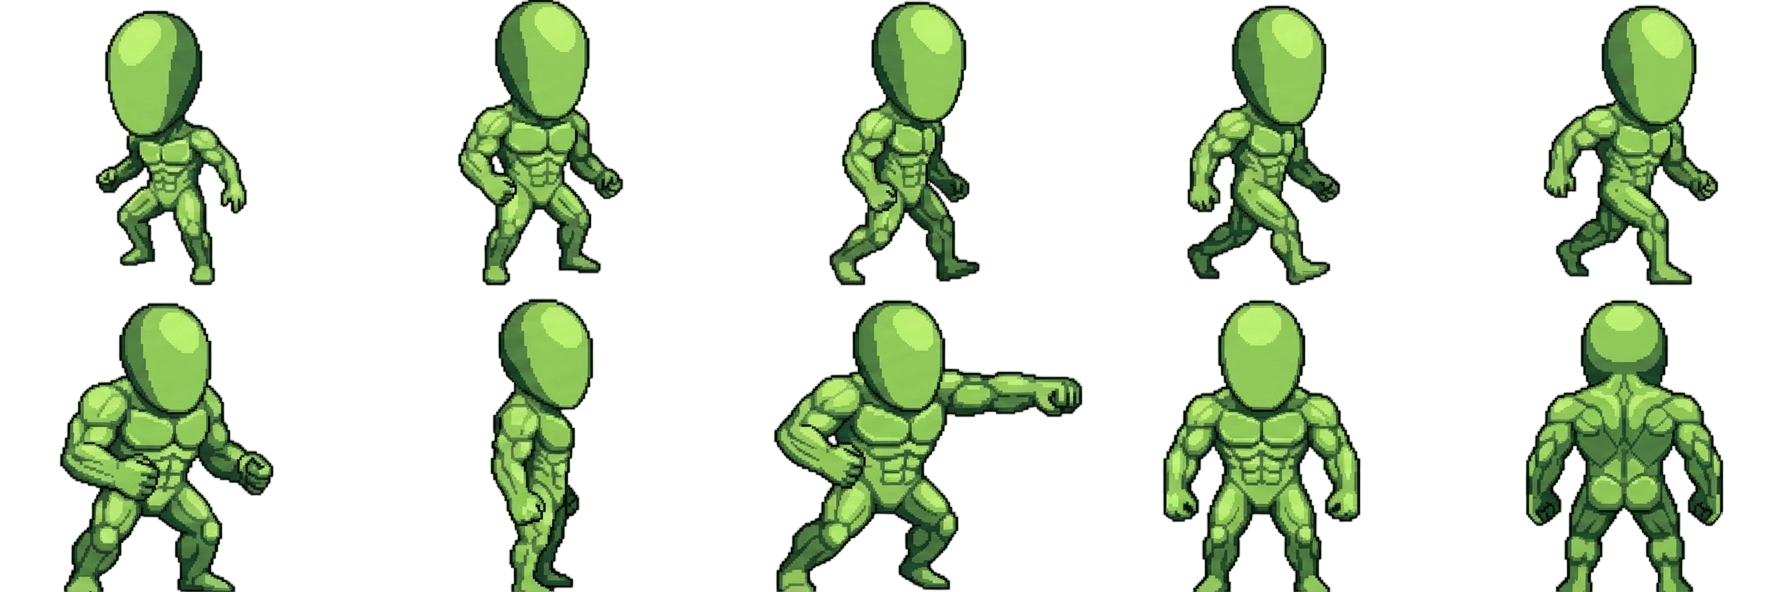
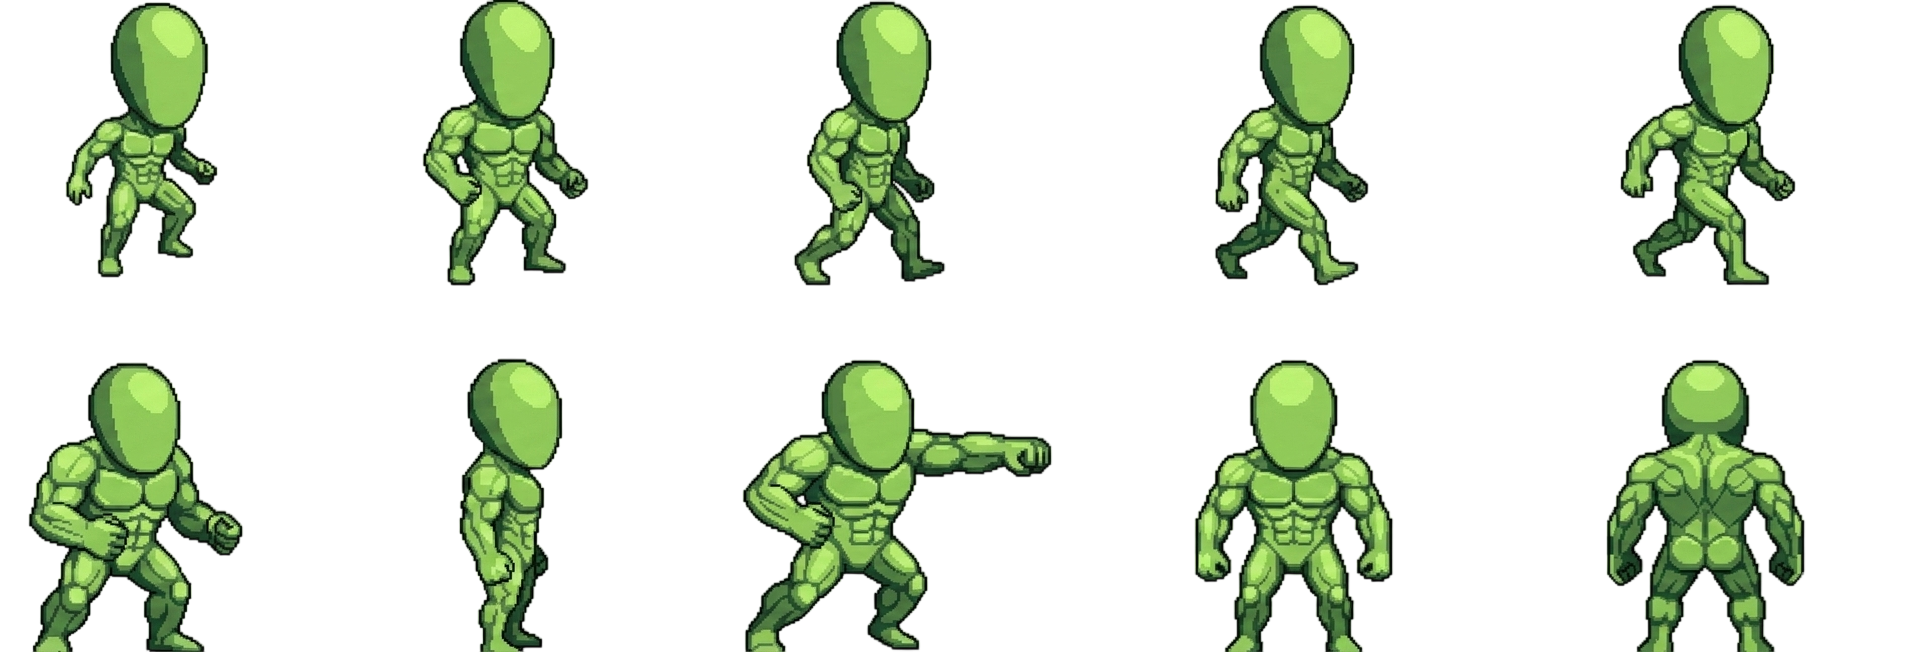
Cambios en prototipo

diff --git a/ARCHON_WARHAMMER 40K/src/ClaseGolem.cpp b/ARCHON_WARHAMMER 40K/src/ClaseGolem.cpp
@@ -25,7 +25,7 @@ ClaseGolem::ClaseGolem(Bando b, sf::Vector2i pos, std::string tipo)
     if (tipo == "DREADNOUGHT" || tipo == "CARNIFEX") {
 
         std::string rutaTablero = (tipo == "DREADNOUGHT") ? "imagenes/BASE-DREADNAUGHT-Humanidad.png" : "imagenes/BASE-CARNIFEX-TYRANIDS.png";
-        std::string rutaArena = (tipo == "DREADNOUGHT") ? "imagenes/Chibi-DREADNAUGHT-Humanidad-1.0.png" : "imagenes/Chibi-CARNIFEX-TYRANIDS-1.0.png";
+        std::string rutaArena = (tipo == "DREADNOUGHT") ? "imagenes/Chibi-PROTOTIPO-XXX.png" : "imagenes/Chibi-CARNIFEX-TYRANIDS-1.0.png";
 
         int columnas = 5;
         int filas = 2;